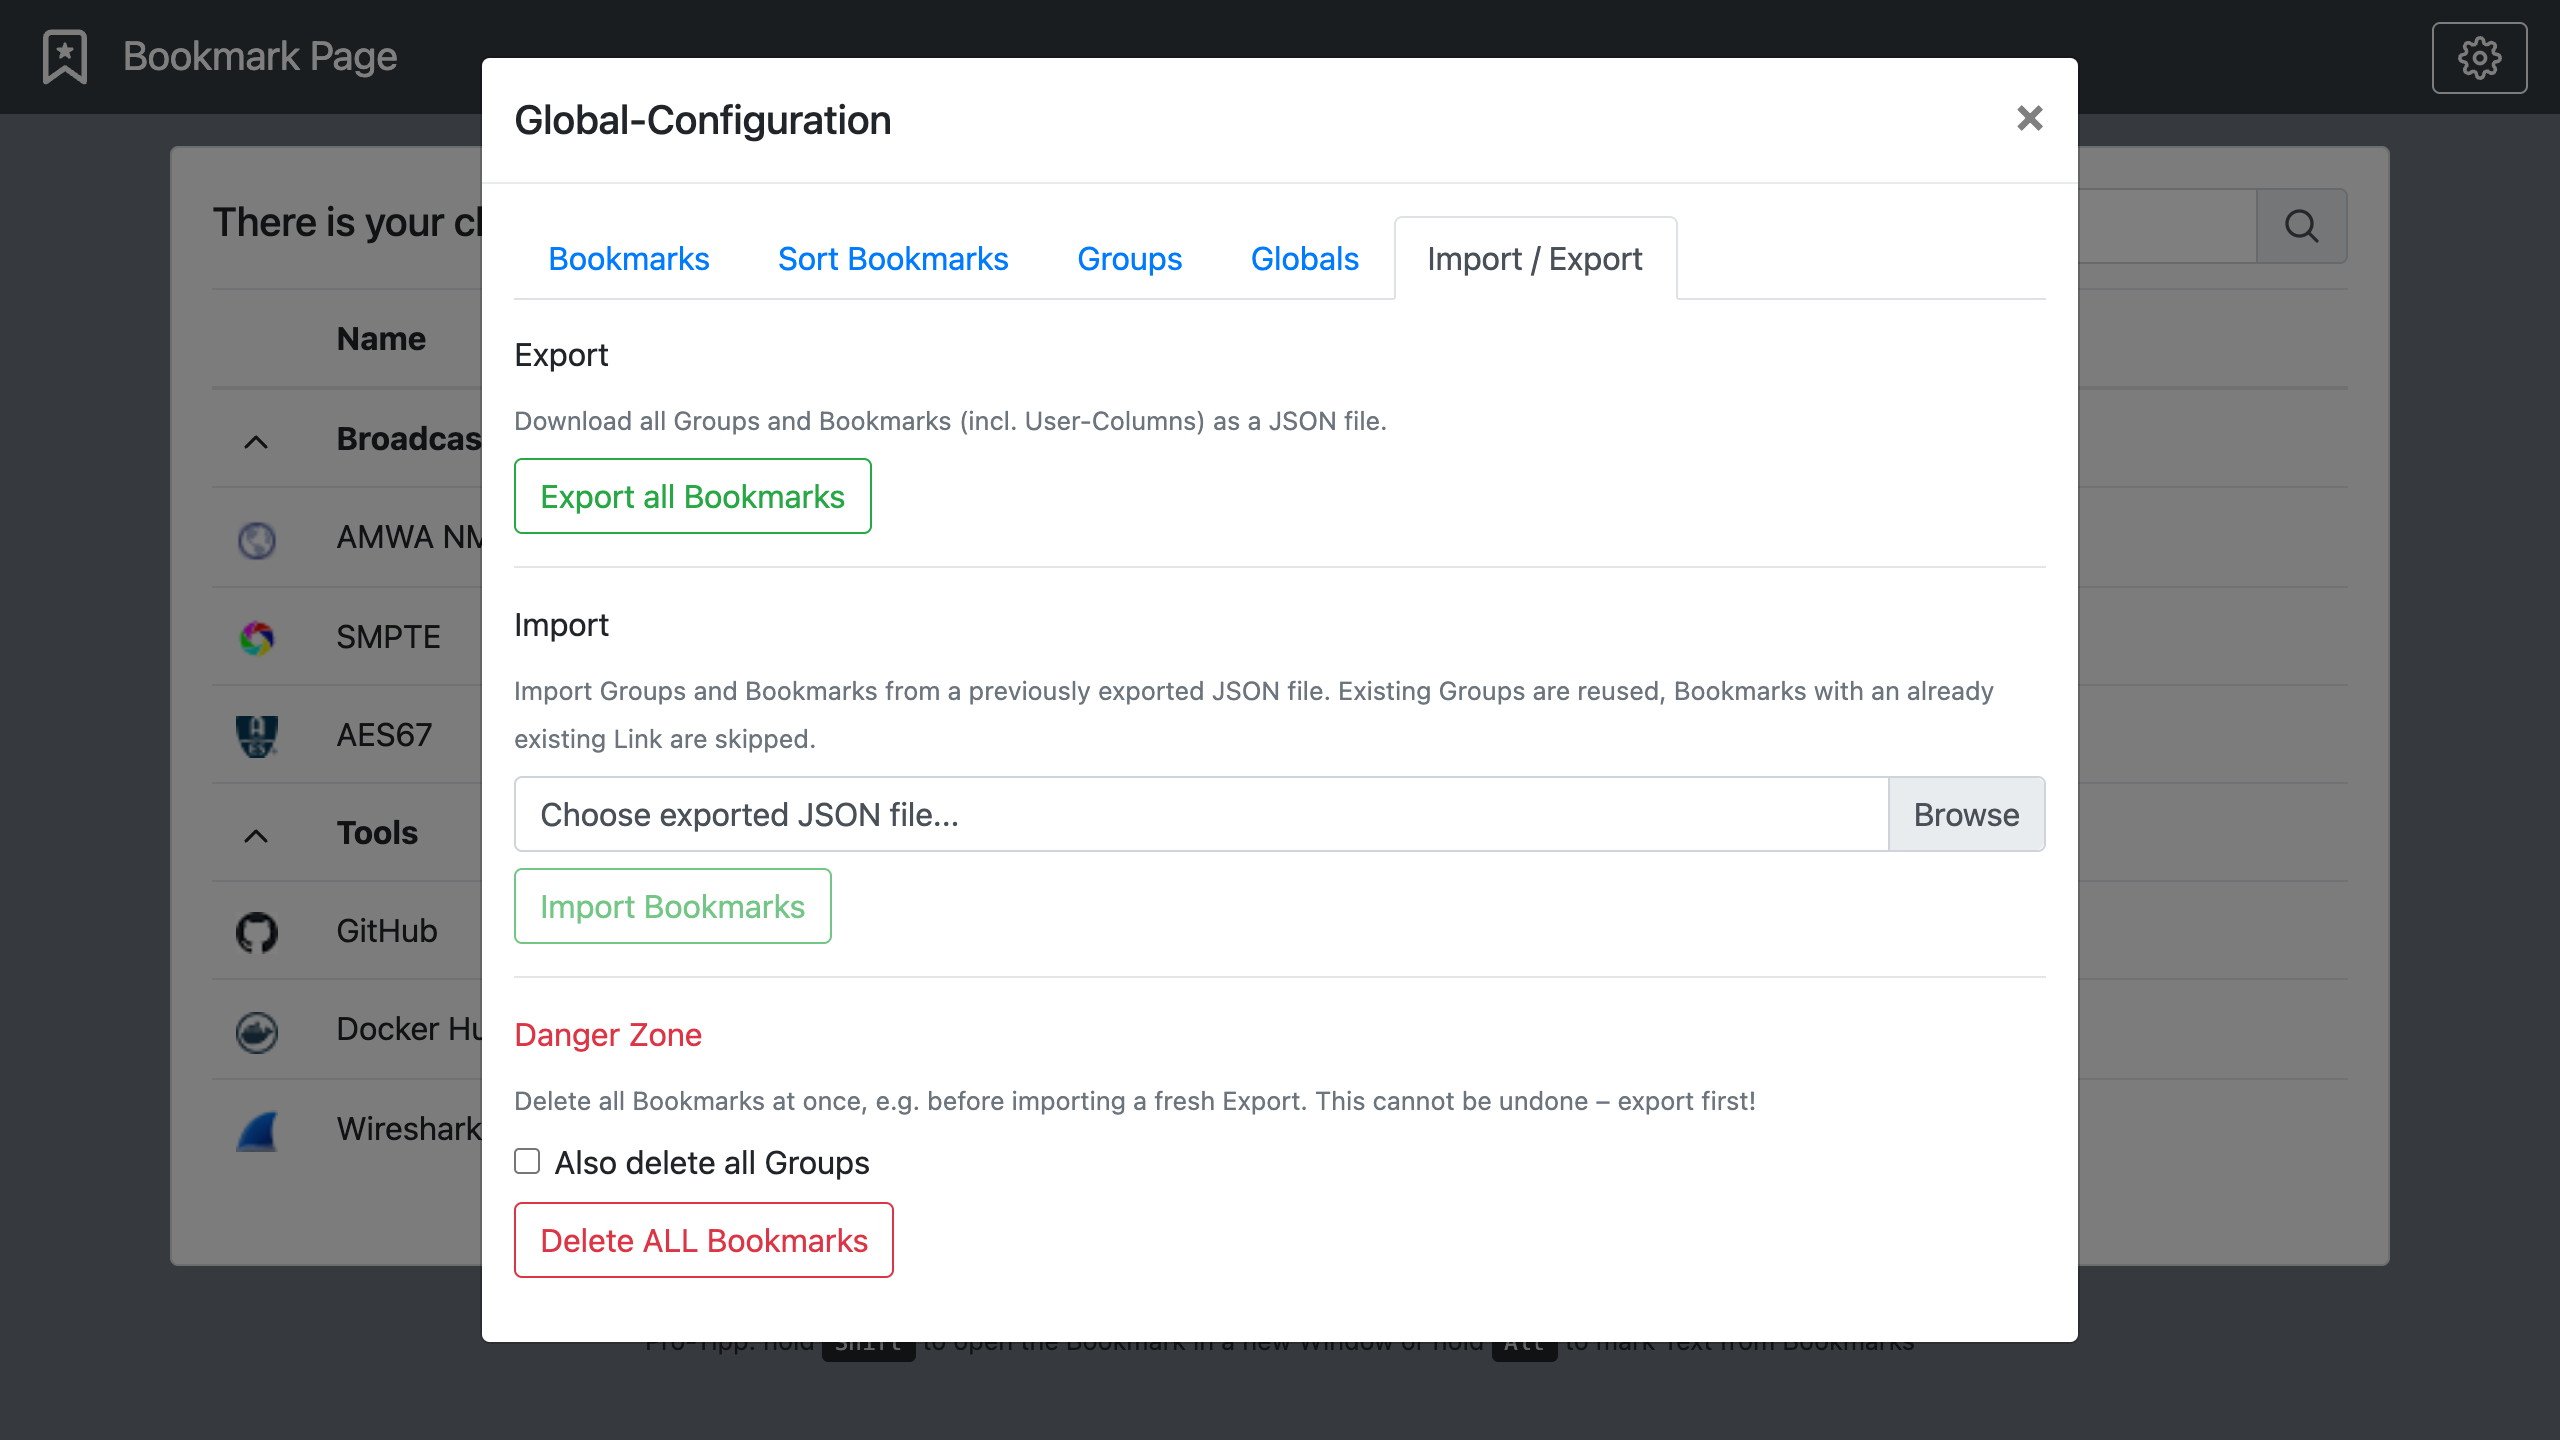
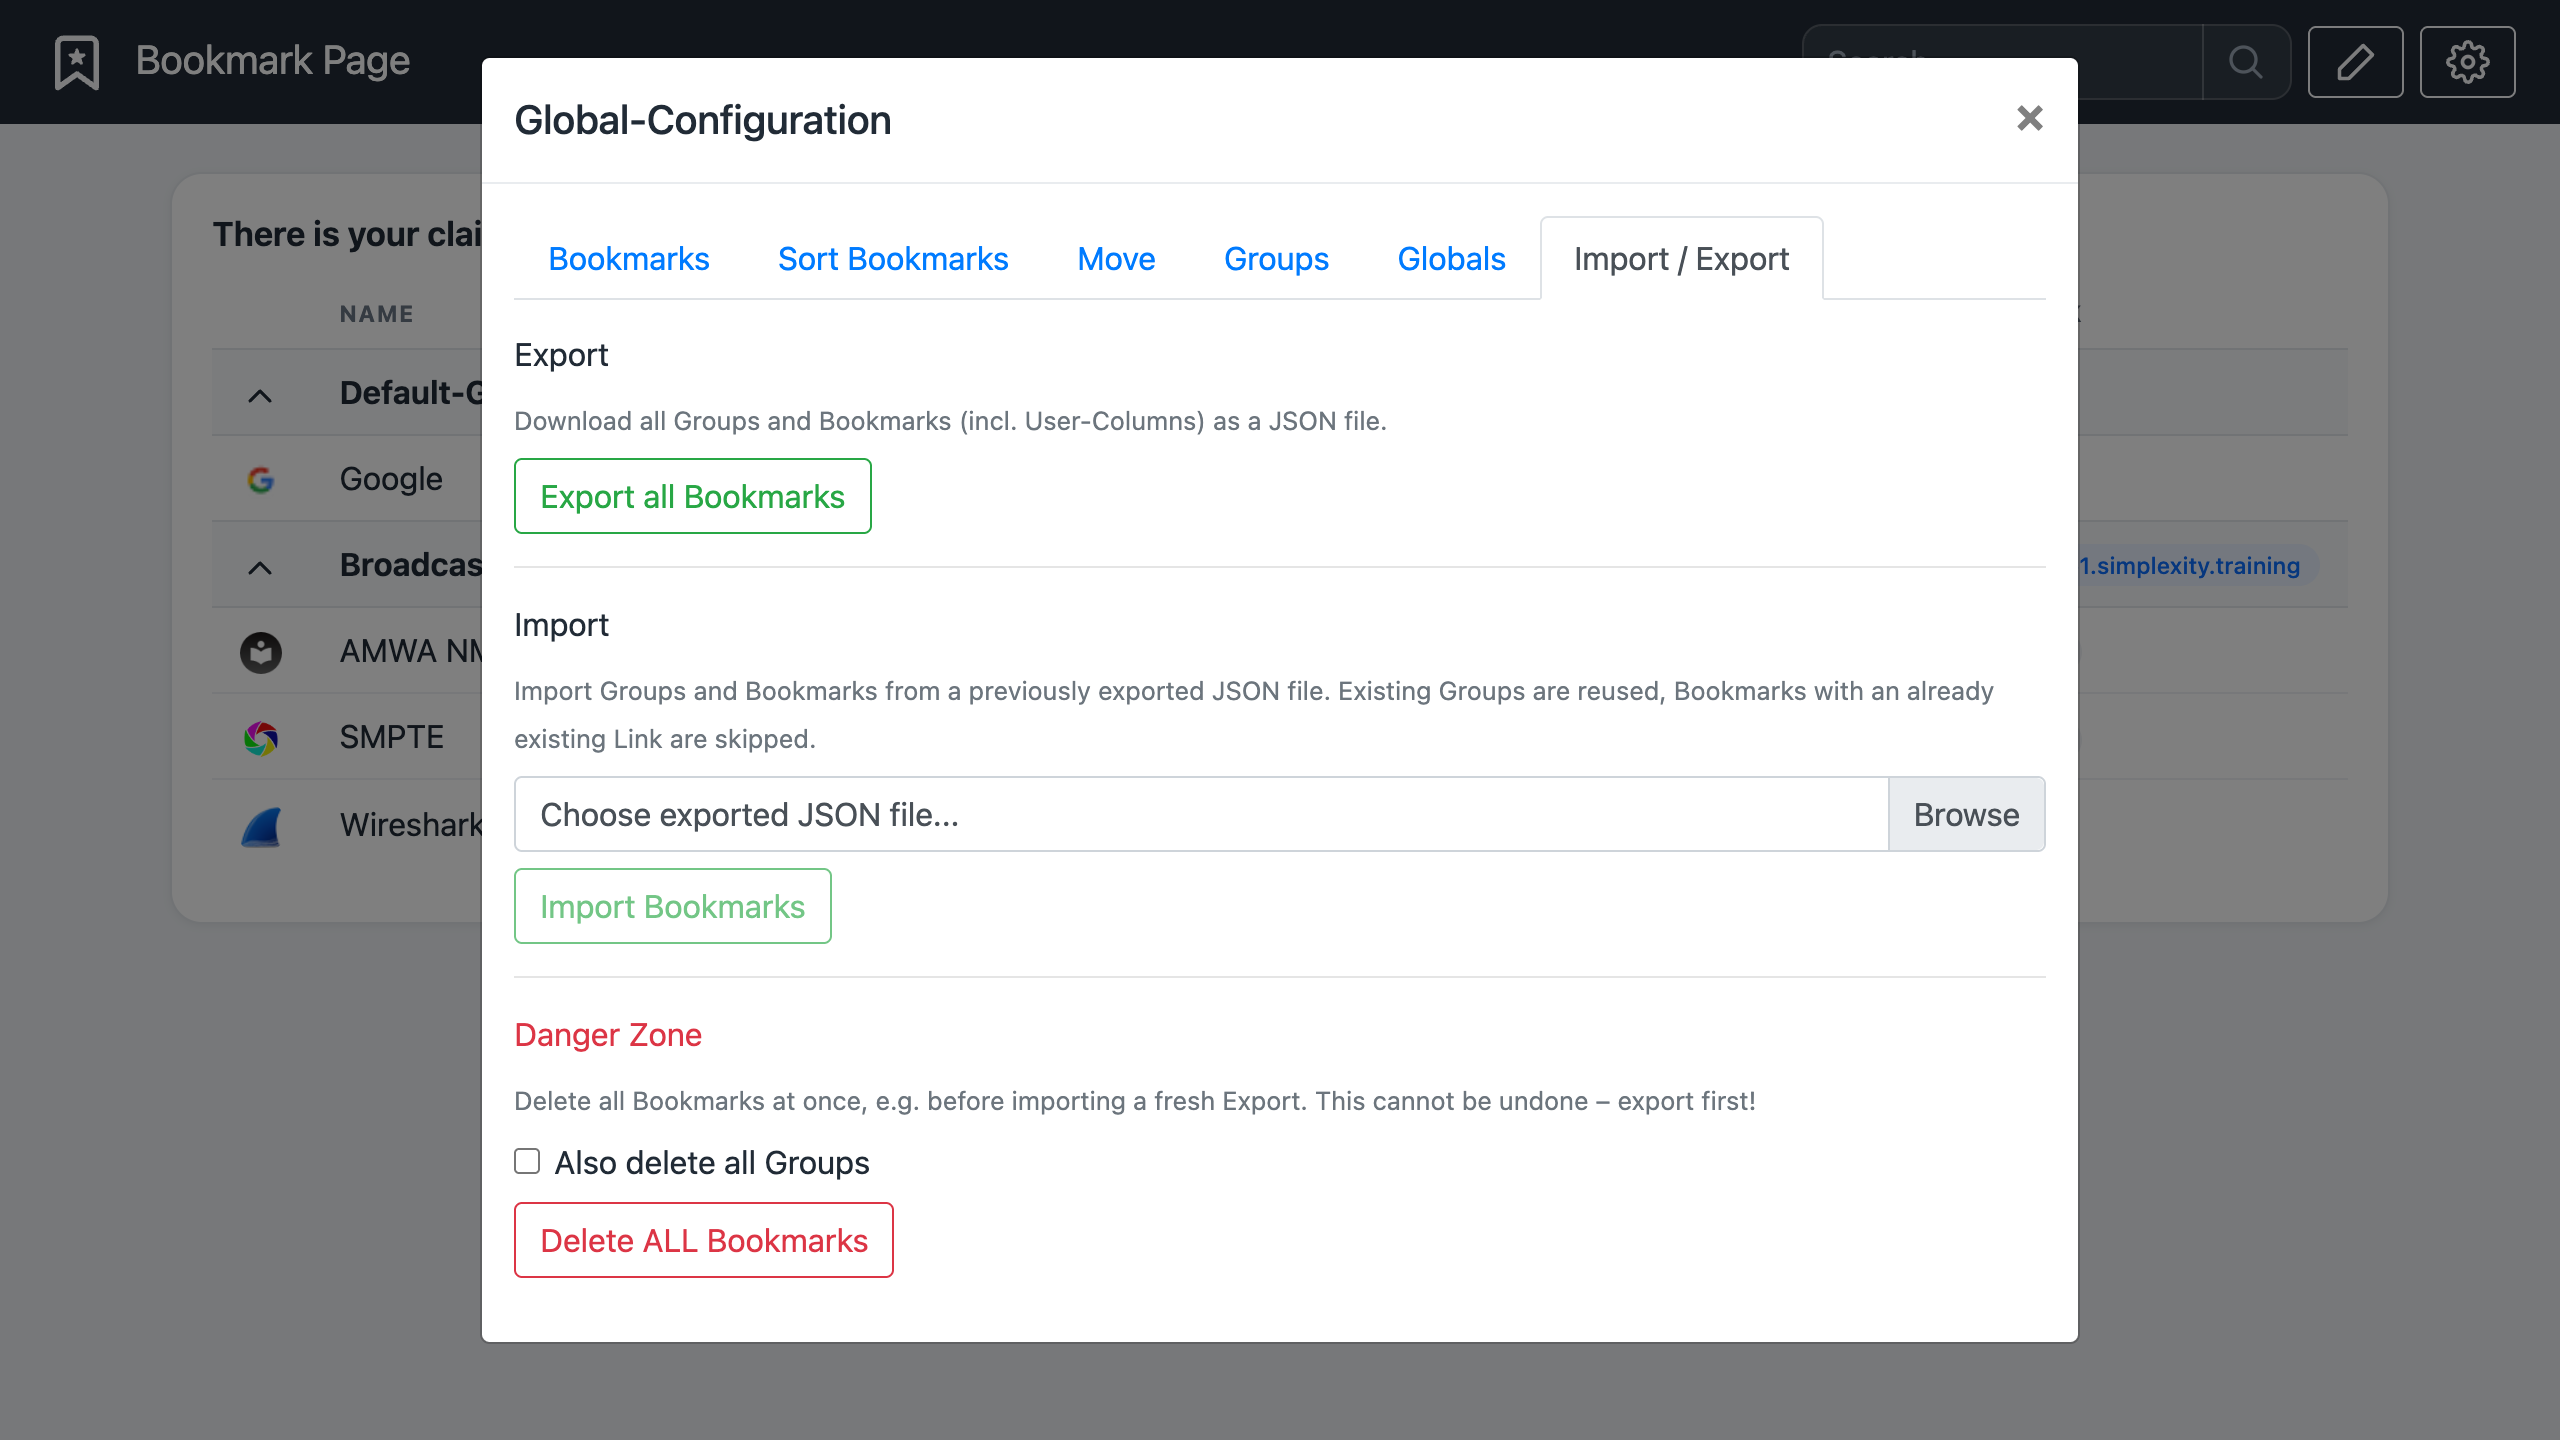
Table-Refresh design (v1.3.4)
Modernized look while keeping the table layout: white rounded panel on
a light background, search moved into the top bar, uppercase column
headers, soft group bands with the group variable as a chip, pill
badges for user-column values, softened background color palette for
the Globals background setting, Inter/system font stack. Edit mode,
drag & drop and search untouched. README screenshots updated.

Changed region(s): [[0.0, 0.0, 1.0, 1.0], [0.4062, 0.1562, 0.7188, 0.1875]]

diff --git a/www/js/bookmark.js b/www/js/bookmark.js
@@ -17,7 +17,7 @@ var GroupHide = {};
 var AltPressed = false;
 var ShiftPressed = false;
 var Mouseovered = false;
-var BMP_Version = '1.3.3';
+var BMP_Version = '1.3.4';
 var EditMode = false;
 
 // replaces {var} in Links/Favicon-URLs with the Group's Variable
@@ -250,10 +250,12 @@ function loadPage(callback){
 				var gcid = 0;
 				Numbers.totalBMs = 0;
 				for (gName in Bookmarks){
+					var groupVar = GroupData[gName].variable;
 					html += '<tr class="GroupTitle" onclick="toggleGroup(\'g-'+gcid+'\');">';
 					if(EditMode)	html += '<td></td>';
-					html += '<td id="gI-g-'+gcid+'" class="GroupIcon"><i data-feather="chevron-up" width="20" height="20"></i></td><th data-g="name">'+gName+'</th><td data-g="remarks" colspan="'+colspanNr+'" scope="row">'+GroupData[gName].remarks+'</td></tr>';
-					var groupVar = GroupData[gName].variable;
+					html += '<td id="gI-g-'+gcid+'" class="GroupIcon"><i data-feather="chevron-up" width="20" height="20"></i></td><th data-g="name">'+gName+'</th><td data-g="remarks" colspan="'+colspanNr+'" scope="row">'+GroupData[gName].remarks;
+					if(!EditMode && groupVar)	html += '<span class="gvar-chip">'+groupVar+'</span>';
+					html += '</td></tr>';
 					$.each(Bookmarks[gName], function(i, bookmark){
 						if(EditMode){
 							// raw values incl. {var} templates, drag handle, extra Link column, favicon as editable URL
@@ -264,9 +266,11 @@ function loadPage(callback){
 							html += '<tr id="bm-'+bookmark.id+'" class="g-'+gcid+'" onclick="openInNewTab(\''+bmLink+'\');" data-toggle="tooltip" title="URL: '+bmLink+'"><td><img class="bm-img" src="'+bmFav+'" onerror="this.onerror=null; this.src=\'img/errorfav.svg\'"></img></td><td data-f="name">'+bookmark.name+'</td><td data-f="remarks">'+bookmark.remarks+'</td>';
 						}
 						for (var j = 1; j <= Global.userCol; j++) {
+							var uVal = bookmark['user'+j];
+							if(!EditMode && uVal)	uVal = '<span class="user-pill">'+uVal+'</span>';
 							html += '<td data-f="user'+j+'"'
 							if(Global['hideU'+j] !== '0')	html += ' style="display: none;"'
-							html += '>'+bookmark['user'+j]+'</td>';
+							html += '>'+uVal+'</td>';
 						}
 						html += '</tr>';
 						Numbers[gName] = i+1;
@@ -420,32 +424,32 @@ function changeBg(color){
 	var bgColour, navColour;
 	switch(color){
 		case 'red':
-			bgColour = '#663333';
-			navColour = '#402020';
+			bgColour = '#f4eceb';
+			navColour = '#3d2528';
 			break;
 		case 'yellow':
-			bgColour = '#666633';
-			navColour = '#404020';
+			bgColour = '#f4f1e8';
+			navColour = '#39331f';
 			break;
 		case 'pink':
-			bgColour = '#663366';
-			navColour = '#402040';
+			bgColour = '#f3ecf3';
+			navColour = '#382338';
 			break;
 		case 'green':
-			bgColour = '#336633';
-			navColour = '#204020';
+			bgColour = '#ecf2ec';
+			navColour = '#213621';
 			break;
 		case 'cyan':
-			bgColour = '#336666';
-			navColour = '#204040';
+			bgColour = '#eaf2f2';
+			navColour = '#1f3537';
 			break;
 		case 'blue':
-			bgColour = '#333366';
-			navColour = '#202040';
+			bgColour = '#ecefF6';
+			navColour = '#232c42';
 			break;
 		default:
-			bgColour = '#6c757d';
-			navColour = '#343a40';
+			bgColour = '#eef1f4';
+			navColour = '#222b36';
 	}
 	$('nav').animate({'background-color': navColour});
 	$('body').animate({'background-color': bgColour});

diff --git a/www/index.html b/www/index.html
@@ -18,37 +18,33 @@
     <title>Bookmark-Page</title>
     <link rel="shortcut icon" type="image/x-icon" href="/favicon.ico">
   </head>
-  <body style="background-color: #6c757d;">
-    <nav class="navbar navbar-dark" style="background-color: #343a40;">
+  <body style="background-color: #eef1f4;">
+    <nav class="navbar navbar-dark" style="background-color: #222b36;">
       <div>
         <img src="img/logo.svg" class="mr-2 mb-1" height="33"></img>
         <a class="navbar-brand" href="" id="page-name">Page-Name</a>
       </div>
       <form class="form-inline">
+        <div class="input-group topbar-search mr-2">
+          <input type="search" class="form-control" id="searchInput" placeholder="Search..." aria-label="Search..." aria-describedby="search-addon">
+          <div class="input-group-append">
+            <span class="input-group-text" id="search-addon1"><i data-feather="search" id="search-addon" width="20" height="20"></i></span>
+          </div>
+        </div>
         <button type="button" class="btn btn-outline-light my-2 my-sm-0 mr-2 d-flex align-items-center" id="editBtn" title="Toggle Edit-Mode: edit fields directly in the table"><i data-feather="edit-2" width="22" height="22"></i></button>
         <button type="button" class="btn btn-outline-light my-2 my-sm-0 d-flex align-items-center" id="configBtn"><i data-feather="settings" width="22" height="22"></i></button>
       </form>
     </nav>
     <div class="container">
-      <div class="card bg-light mt-3">
+      <div class="card main-panel mt-4">
         <div class="card-body">
-          <div class="row align-items-center mb-1">
-            <div class="col-lg-7">
-              <h5 class="card-title" id="pageClaim">Claim</h5>
-            </div>
-            <div class="input-group col-lg-5 mb-2">
-              <input type="search" class="form-control" id="searchInput" placeholder="Search..." aria-label="Search..." aria-describedby="search-addon">
-              <div class="input-group-append">
-                <span class="input-group-text" id="search-addon1"><i data-feather="search" id="search-addon" width="20" height="20"></i></span>
-              </div>
-            </div>
-          </div>
+          <h5 class="card-title" id="pageClaim">Claim</h5>
           <div class="table-responsive mb-2" id="bookmarks">loading... </div>
         </div>
       </div>
-      <div class="text-center">
+      <div class="text-center text-muted page-foot">
         <small>written by Adi Hilber &amp; Oliver Ettlin, Simplexity | v<span id="version"></span></small><br/>
-        <small style="padding-bottom: 10px;">Pro-Tipp: hold <kbd style="color:#ccc;">Shift</kbd> to open the Bookmark in a new Window or hold <kbd style="color:#ccc;">Alt</kbd> to mark Text from Bookmarks</small>
+        <small style="padding-bottom: 10px;">Pro-Tipp: hold <kbd>Shift</kbd> to open the Bookmark in a new Window or hold <kbd>Alt</kbd> to mark Text from Bookmarks</small>
       </div>
     </div>
     <!-- Modal - Global-Config -->

diff --git a/www/css/bookmark.css b/www/css/bookmark.css
@@ -48,3 +48,105 @@
     opacity: .4;
     background-color: #cce5ff;
 }
+
+/* ===== Table-Refresh Theme (v1.3.4) ===== */
+body {
+    font-family: Inter, -apple-system, BlinkMacSystemFont, "Segoe UI", Roboto, sans-serif;
+    color: #212b36;
+}
+.navbar {
+    padding: .65rem 1.4rem;
+}
+.topbar-search {
+    width: 300px;
+}
+.topbar-search .form-control {
+    background: rgba(255,255,255,.08);
+    border: 1px solid rgba(255,255,255,.17);
+    border-radius: 10px 0 0 10px;
+    color: #e4e9ee;
+}
+.topbar-search .form-control::placeholder {
+    color: #9aa7b4;
+}
+.topbar-search .form-control:focus {
+    background: rgba(255,255,255,.12);
+    color: #fff;
+    box-shadow: none;
+    border-color: rgba(255,255,255,.35);
+}
+.topbar-search .input-group-text {
+    background: rgba(255,255,255,.08);
+    border: 1px solid rgba(255,255,255,.17);
+    border-left: 0;
+    border-radius: 0 10px 10px 0;
+    color: #9aa7b4;
+}
+.main-panel {
+    background: #fff;
+    border: 1px solid #e2e6ea;
+    border-radius: 16px;
+    box-shadow: 0 1px 4px rgba(16,24,40,.06);
+}
+.main-panel .card-title {
+    font-weight: 650;
+    font-size: 1.05rem;
+}
+#bookmarks .table {
+    margin-bottom: 0;
+}
+#bookmarks thead th {
+    font-size: .72rem;
+    text-transform: uppercase;
+    letter-spacing: .06em;
+    color: #6b7684;
+    border-top: 0;
+    border-bottom: 1px solid #e2e6ea;
+    padding: .55rem .85rem;
+}
+#bookmarks td, #bookmarks tbody th {
+    padding: .55rem .85rem;
+    vertical-align: middle;
+    border-top: 1px solid #eef1f4;
+}
+#bookmarks .GroupTitle {
+    background: #f6f8fa;
+}
+#bookmarks .GroupTitle th, #bookmarks .GroupTitle td {
+    border-top: 1px solid #e2e6ea;
+    border-bottom: 1px solid #e2e6ea;
+    font-weight: 650;
+}
+#bookmarks .GroupTitle td[data-g="remarks"] {
+    font-weight: 400;
+    color: #6b7684;
+    font-size: .88rem;
+}
+#bookmarks tbody tr:not(.GroupTitle):hover {
+    background: #f2f7ff;
+}
+.bm-img {
+    border-radius: 4px;
+}
+.gvar-chip {
+    float: right;
+    font-size: .72rem;
+    font-weight: 500;
+    background: #e8f0fe;
+    color: #0d6efd;
+    border-radius: 999px;
+    padding: 2px 10px;
+    margin-top: 2px;
+}
+.user-pill {
+    display: inline-block;
+    font-size: .74rem;
+    background: #eef1f4;
+    color: #51606e;
+    border-radius: 999px;
+    padding: 2px 10px;
+}
+.page-foot kbd {
+    color: #fff;
+    background: #51606e;
+}
